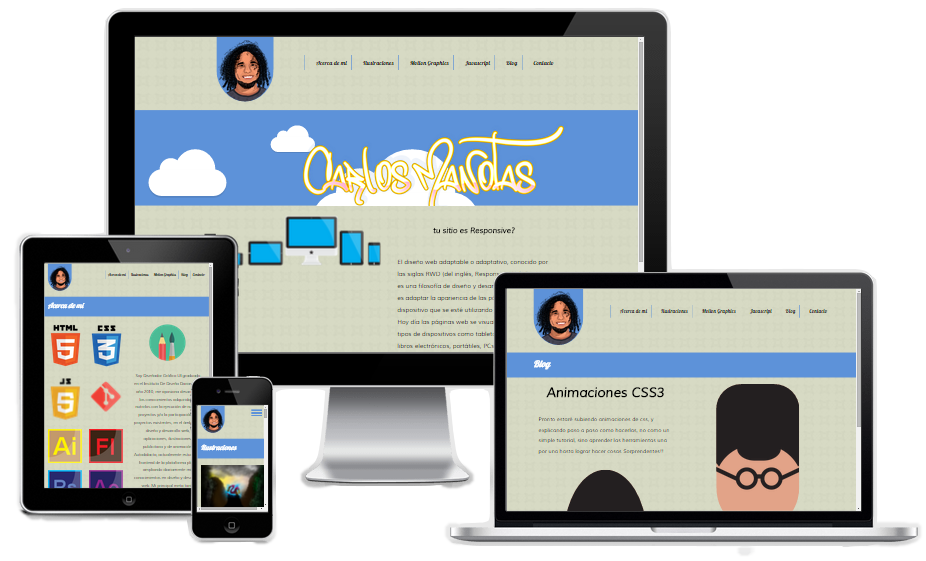
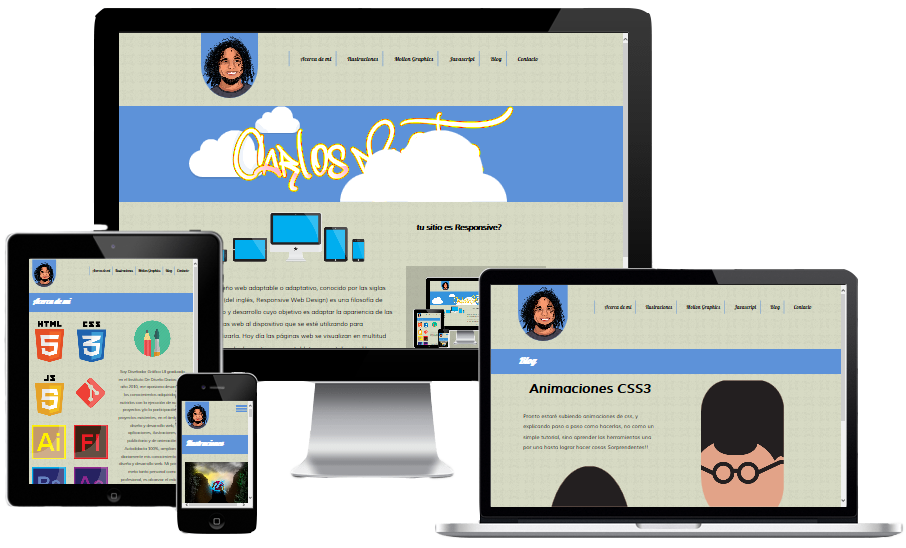
cuadricula fixed

Changed region(s): [[0.0, 0.0, 1.0, 0.9927], [0.4636, 0.4033, 0.5563, 0.4343]]

diff --git a/estilos.css b/estilos.css
@@ -1,1 +1,1 @@
-*,*:before,*:after{box-sizing:border-box}body{margin:0;padding:0}img{max-width:100%;height:auto}.grupo{position:relative;max-width:1100px;width:100%;margin:0 auto}.grupo.total{max-width:100% !important}.grupo:before,.grupo:after{content:"";display:table;width:100%;clear:both}.grupo .caja{float:left;margin:0;padding-left:15px;padding-right:15px;width:100%}.grupo .caja:last-child{float:right}.grupo .caja.total{float:none;display:table}.grupo .caja.total:before,.grupo .caja.total:after{content:"";display:table;width:100%;clear:both}.grupo .base-5{width:5%}.grupo .base-10{width:10%}.grupo .base-15{width:15%}.grupo .base-20{width:20%}.grupo .base-25{width:25%}.grupo .base-30{width:30%}.grupo .base-35{width:35%}.grupo .base-40{width:40%}.grupo .base-45{width:45%}.grupo .base-50{width:50%}.grupo .base-55{width:55%}.grupo .base-60{width:60%}.grupo .base-65{width:65%}.grupo .base-70{width:70%}.grupo .base-75{width:75%}.grupo .base-80{width:80%}.grupo .base-85{width:85%}.grupo .base-90{width:90%}.grupo .base-95{width:95%}.grupo .base-100{width:100%}.grupo .base-1-3{width:33.333333333%}.grupo .base-2-3{width:66.666666667%}.grupo .base-3-3{width:100%}.grupo .base-1-6{width:16.666666667%}.grupo .base-2-6{width:33.333333333%}.grupo .base-3-6{width:50%}.grupo .base-4-6{width:66.666666667%}.grupo .base-5-6{width:83.333333333%}.grupo .base-6-6{width:100%}.grupo .base-1-8{width:12.5%}.grupo .base-2-8{width:25%}.grupo .base-3-8{width:37.5%}.grupo .base-4-8{width:50%}.grupo .base-5-8{width:62.5%}.grupo .base-6-8{width:75%}.grupo .base-7-8{width:87.5%}.grupo .base-8-8{width:100%}@media all and (min-width: 480px){.grupo .caja.movil-5{width:5%}.grupo .caja.movil-10{width:10%}.grupo .caja.movil-15{width:15%}.grupo .caja.movil-20{width:20%}.grupo .caja.movil-25{width:25%}.grupo .caja.movil-30{width:30%}.grupo .caja.movil-35{width:35%}.grupo .caja.movil-40{width:40%}.grupo .caja.movil-45{width:45%}.grupo .caja.movil-50{width:50%}.grupo .caja.movil-55{width:55%}.grupo .caja.movil-60{width:60%}.grupo .caja.movil-65{width:65%}.grupo .caja.movil-70{width:70%}.grupo .caja.movil-75{width:75%}.grupo .caja.movil-80{width:80%}.grupo .caja.movil-85{width:85%}.grupo .caja.movil-90{width:90%}.grupo .caja.movil-95{width:95%}.grupo .caja.movil-100{width:100%}.grupo .caja.movil-1-3{width:33.333333333%}.grupo .caja.movil-2-3{width:66.666666667%}.grupo .caja.movil-3-3{width:100%}.grupo .caja.movil-1-6{width:16.666666667%}.grupo .caja.movil-2-6{width:33.333333333%}.grupo .caja.movil-3-6{width:50%}.grupo .caja.movil-4-6{width:66.666666667%}.grupo .caja.movil-5-6{width:83.333333333%}.grupo .caja.movil-6-6{width:100%}.grupo .caja.movil-1-8{width:12.5%}.grupo .caja.movil-2-8{width:25%}.grupo .caja.movil-3-8{width:37.5%}.grupo .caja.movil-4-8{width:50%}.grupo .caja.movil-5-8{width:62.5%}.grupo .caja.movil-6-8{width:75%}.grupo .caja.movil-7-8{width:87.5%}.grupo .caja.movil-8-8{width:100%}}@media all and (min-width: 768px){.grupo .caja.tablet-5{width:5%}.grupo .caja.tablet-10{width:10%}.grupo .caja.tablet-15{width:15%}.grupo .caja.tablet-20{width:20%}.grupo .caja.tablet-25{width:25%}.grupo .caja.tablet-30{width:30%}.grupo .caja.tablet-35{width:35%}.grupo .caja.tablet-40{width:40%}.grupo .caja.tablet-45{width:45%}.grupo .caja.tablet-50{width:50%}.grupo .caja.tablet-55{width:55%}.grupo .caja.tablet-60{width:60%}.grupo .caja.tablet-65{width:65%}.grupo .caja.tablet-70{width:70%}.grupo .caja.tablet-75{width:75%}.grupo .caja.tablet-80{width:80%}.grupo .caja.tablet-85{width:85%}.grupo .caja.tablet-90{width:90%}.grupo .caja.tablet-95{width:95%}.grupo .caja.tablet-100{width:100%}.grupo .caja.tablet-1-3{width:33.333333333%}.grupo .caja.tablet-2-3{width:66.666666667%}.grupo .caja.tablet-3-3{width:100%}.grupo .caja.tablet-1-6{width:16.666666667%}.grupo .caja.tablet-2-6{width:33.333333333%}.grupo .caja.tablet-3-6{width:50%}.grupo .caja.tablet-4-6{width:66.666666667%}.grupo .caja.tablet-5-6{width:83.333333333%}.grupo .caja.tablet-6-6{width:100%}.grupo .caja.tablet-1-8{width:12.5%}.grupo .caja.tablet-2-8{width:25%}.grupo .caja.tablet-3-8{width:37.5%}.grupo .caja.tablet-4-8{width:50%}.grupo .caja.tablet-5-8{width:62.5%}.grupo .caja.tablet-6-8{width:75%}.grupo .caja.tablet-7-8{width:87.5%}.grupo .caja.tablet-8-8{width:100%}}@media all and (min-width: 1025px){.grupo .caja.web-5{width:5%}.grupo .caja.web-10{width:10%}.grupo .caja.web-15{width:15%}.grupo .caja.web-20{width:20%}.grupo .caja.web-25{width:25%}.grupo .caja.web-30{width:30%}.grupo .caja.web-35{width:35%}.grupo .caja.web-40{width:40%}.grupo .caja.web-45{width:45%}.grupo .caja.web-50{width:50%}.grupo .caja.web-55{width:55%}.grupo .caja.web-60{width:60%}.grupo .caja.web-65{width:65%}.grupo .caja.web-70{width:70%}.grupo .caja.web-75{width:75%}.grupo .caja.web-80{width:80%}.grupo .caja.web-85{width:85%}.grupo .caja.web-90{width:90%}.grupo .caja.web-95{width:95%}.grupo .caja.web-100{width:100%}.grupo .caja.web-1-3{width:33.333333333%}.grupo .caja.web-2-3{width:66.666666667%}.grupo .caja.web-3-3{width:100%}.grupo .caja.web-1-6{width:16.666666667%}.grupo .caja.web-2-6{width:33.333333333%}.grupo .caja.web-3-6{width:50%}.grupo .caja.web-4-6{width:66.666666667%}.grupo .caja.web-5-6{width:83.333333333%}.grupo .caja.web-6-6{width:100%}.grupo .caja.web-1-8{width:12.5%}.grupo .caja.web-2-8{width:25%}.grupo .caja.web-3-8{width:37.5%}.grupo .caja.web-4-8{width:50%}.grupo .caja.web-5-8{width:62.5%}.grupo .caja.web-6-8{width:75%}.grupo .caja.web-7-8{width:87.5%}.grupo .caja.web-8-8{width:100%}}@media all and (min-width: 1400px){.grupo .caja.hd-5{width:5%}.grupo .caja.hd-10{width:10%}.grupo .caja.hd-15{width:15%}.grupo .caja.hd-20{width:20%}.grupo .caja.hd-25{width:25%}.grupo .caja.hd-30{width:30%}.grupo .caja.hd-35{width:35%}.grupo .caja.hd-40{width:40%}.grupo .caja.hd-45{width:45%}.grupo .caja.hd-50{width:50%}.grupo .caja.hd-55{width:55%}.grupo .caja.hd-60{width:60%}.grupo .caja.hd-65{width:65%}.grupo .caja.hd-70{width:70%}.grupo .caja.hd-75{width:75%}.grupo .caja.hd-80{width:80%}.grupo .caja.hd-85{width:85%}.grupo .caja.hd-90{width:90%}.grupo .caja.hd-95{width:95%}.grupo .caja.hd-100{width:100%}.grupo .caja.hd-1-3{width:33.333333333%}.grupo .caja.hd-2-3{width:66.666666667%}.grupo .caja.hd-3-3{width:100%}.grupo .caja.hd-1-6{width:16.666666667%}.grupo .caja.hd-2-6{width:33.333333333%}.grupo .caja.hd-3-6{width:50%}.grupo .caja.hd-4-6{width:66.666666667%}.grupo .caja.hd-5-6{width:83.333333333%}.grupo .caja.hd-6-6{width:100%}.grupo .caja.hd-1-8{width:12.5%}.grupo .caja.hd-2-8{width:25%}.grupo .caja.hd-3-8{width:37.5%}.grupo .caja.hd-4-8{width:50%}.grupo .caja.hd-5-8{width:62.5%}.grupo .caja.hd-6-8{width:75%}.grupo .caja.hd-7-8{width:87.5%}.grupo .caja.hd-8-8{width:100%}}.grupo.cuadricula{font-size:0}.grupo.cuadricula>.caja{float:none;display:inline-block;font-size:1rem}.grupo.base-tabla{display:table}.grupo.base-tabla>.caja{float:none;display:table-cell}.grupo.base-tabla.middle>.caja{vertical-align:middle}.grupo.base-tabla.top>.caja{vertical-align:top}.grupo.base-tabla.bottom>.caja{vertical-align:bottom}@media all and (min-width: 480px){.grupo.movil-tabla{display:table}.grupo.movil-tabla>.caja{float:none;display:table-cell}.grupo.movil-tabla.middle>.caja{vertical-align:middle}.grupo.movil-tabla.top>.caja{vertical-align:top}.grupo.movil-tabla.bottom>.caja{vertical-align:bottom}}@media all and (min-width: 768px){.grupo.tablet-tabla{display:table}.grupo.tablet-tabla>.caja{float:none;display:table-cell}.grupo.tablet-tabla.middle>.caja{vertical-align:middle}.grupo.tablet-tabla.top>.caja{vertical-align:top}.grupo.tablet-tabla.bottom>.caja{vertical-align:bottom}}@media all and (min-width: 1025px){.grupo.web-tabla{display:table}.grupo.web-tabla>.caja{float:none;display:table-cell}.grupo.web-tabla.middle>.caja{vertical-align:middle}.grupo.web-tabla.top>.caja{vertical-align:top}.grupo.web-tabla.bottom>.caja{vertical-align:bottom}}@media all and (min-width: 1400px){.grupo.hd-tabla{display:table}.grupo.hd-tabla>.caja{float:none;display:table-cell}.grupo.hd-tabla.middle>.caja{vertical-align:middle}.grupo.hd-tabla.top>.caja{vertical-align:top}.grupo.hd-tabla.bottom>.caja{vertical-align:bottom}}body.desarrollo{padding:0 !important;margin:0 !important}body.desarrollo:before{background:steelblue;color:#fff;font-size:18px;font-weight:bold;line-height:36px;text-align:center;display:block;height:36px;margin-bottom:30px;position:relative;z-index:900}body.desarrollo .grupo{padding-top:22px;margin-bottom:10px;outline:1px solid tomato}body.desarrollo .grupo .caja{position:relative;padding-bottom:22px}body.desarrollo .grupo .caja:nth-child(even){background:rgba(70,130,180,0.2)}body.desarrollo .grupo .grupo{margin-bottom:0}.desarrollo .grupo .caja:after,.desarrollo .grupo:before{content:attr(class);font-style:italic;font-size:12px;font-weight:normal;padding:0 5px;z-index:1;bottom:0;right:0;position:absolute;display:table;width:100%;height:22px;line-height:22px}.desarrollo .grupo:before{background:rgba(255,99,71,0.3);color:tomato;top:0;left:0;width:100%}.desarrollo .caja:after{background:rgba(70,130,180,0.2);color:steelblue}.desarrollo .caja.total:after{background:rgba(27,50,70,0.3)}body.desarrollo:before{content:"ED-GRID: Tamaño base"}@media screen and (min-width: 480px){body.desarrollo:before{content:"ED-GRID: Tamaño movil, a partir de 480px"}}@media screen and (min-width: 768px){body.desarrollo:before{content:"ED-GRID: Tamaño tablet, a partir de 768px"}}@media screen and (min-width: 1025px){body.desarrollo:before{content:"ED-GRID: Tamaño web, a partir de 1025px"}}@media screen and (min-width: 1400px){body.desarrollo:before{content:"ED-GRID: Tamaño hd, a partir de 1400px"}}@media screen and (max-width: 479px){.desde-movil{display:none}}@media screen and (min-width: 480px){.desde-movil{display:block}}@media screen and (max-width: 767px){.desde-tablet{display:none}}@media screen and (min-width: 768px){.desde-tablet{display:block}}@media screen and (max-width: 1024px){.desde-web{display:none}}@media screen and (min-width: 1025px){.desde-web{display:block}}@media screen and (max-width: 1399px){.desde-hd{display:none}}@media screen and (min-width: 1400px){.desde-hd{display:block}}@media screen and (max-width: 479px){.hasta-movil{display:block}}@media screen and (min-width: 480px){.hasta-movil{display:none}}@media screen and (max-width: 767px){.hasta-tablet{display:block}}@media screen and (min-width: 768px){.hasta-tablet{display:none}}@media screen and (max-width: 1024px){.hasta-web{display:block}}@media screen and (min-width: 1025px){.hasta-web{display:none}}@media screen and (max-width: 1399px){.hasta-hd{display:block}}@media screen and (min-width: 1400px){.hasta-hd{display:none}}.centrar-caja{display:block;clear:both;float:none !important;margin:0 auto !important}.centrar-texto{text-align:center}.derecha-texto{text-align:right}.left,.izquierda{float:left}.right,.derecha{float:right}.no-padding.grupo>.caja,.grupo>.no-padding{padding:0 !important}.padding{padding-left:15px;padding-right:15px}.doble-padding{padding-left:30px;padding-right:30px}body{background:#d7dac4 url("imagenes/texturas.png") repeat;min-width:320px}h1{text-align:center;font-family:'Muli',sans-serif;font-style:italic;font-size:1.5rem}h2{font-size:3rem}@media screen and (min-width: 768px){.titulo{padding-top:2em;}}.logo{width:110px;padding:0.6em 0.3em 0 0.3em;background-color:#5d92d9;border-radius:0 0 50% 50%}@media screen and (min-width: 1025px){.logo{width:180px;}}#mostrar-menu{padding-top:1em;padding-left:0.5em;line-height:3;text-align:right}@media screen and (min-width: 768px){#mostrar-menu{display:none;}}#mostrar-menu:before{content:"";cursor:pointer;display:inline-block;width:3.2em;height:2em;margin-right:0.5em;position:relative;top:0.1em;background:linear-gradient(#5d92d9 25%, transparent 25%, transparent 37%, #5d92d9 37%, #5d92d9 62%, transparent 62%, transparent 75%, #5d92d9 75%)}.menu{list-style:none;margin:0;padding:0;background:rgba(0,0,0,0.5);display:none}@media screen and (min-width: 768px){.menu{background:transparent;display:block;text-align:right;}}@media screen and (min-width: 768px){.menu__item{display:inline-block;}}.menu__item:nth-child(4){display:none}@media screen and (min-width: 1025px){.menu__item:nth-child(4){display:inline-block;}}.menu__link{color:black;line-height:2.5;padding-left:1em;text-decoration:none;font-family:'Lobster',cursive}.menu__link:hover{color:white}@media screen and (min-width: 768px){.menu__link{margin-top:2em;padding:0 0.4em 0 0.8em;display:inline-block;transition:all 0.5s;box-shadow:2px 0 rgba(93,146,217,0.9) inset;}.menu__link:hover{box-shadow:20em 0 rgba(93,146,217,0.9) inset;color:white}}@media screen and (min-width: 1025px){.menu__link{margin-top:3em;font-size:1.2em;padding:0 0.5em 0 1.9em;}}.caja-texto{padding:1.5em 1em;font-family:'Muli',sans-serif;text-align:left;font-size:1.2em}@media screen and (min-width: 768px){.caja-texto{line-height:2;}}.side{background-color:rgba(96,97,87,0.3);padding:2em 0;font-family:'Muli',sans-serif}.footer{width:100%;background:#606157 url("imagenes/texturas.png") repeat;text-align:center}@media screen and (min-width: 768px){.footer{bottom:0;}}.footer a{display:inline-block;text-decoration:none;color:#2f3637}.footer a :hover{color:black}.footer p{font-family:'Lobster',cursive;font-size:1.5rem;font-style:italic;color:white;margin-top:0.3em;margin-bottom:0;padding-left:0.2em}.footer h2{margin:0;padding:0 0.1em 0.2em 0.1em}.home{padding:0.5em 0.3em 0.2em 0 !important;box-shadow:2px 0 #2f3637;display:inline-block;font-size:3.5rem}.nube{background:#fff;border-radius:100px;box-shadow:0 8px 5px rgba(0,0,0,0.1);height:120px;position:relative;width:350px}.nube:after,.nube:before{background:#fff;content:'';position:absolute;z-indeX:-1}.nube:after{border-radius:100px;height:100px;left:50px;top:-50px;width:100px}.nube:before{border-radius:200px;width:180px;height:180px;right:50px;top:-90px}@-webkit-keyframes nubeAnimada{100%{margin-left:-1400px}0%{margin-left:100%}}@keyframes nubeAnimada{100%{margin-left:-1400px}0%{margin-left:100%}}.n1{-webkit-animation:nubeAnimada 35s linear infinite;animation:nubeAnimada 35s linear infinite;-webkit-transform:scale(0.4);-ms-transform:scale(0.4);transform:scale(0.4)}.n2{-webkit-animation:nubeAnimada 25s linear infinite;animation:nubeAnimada 25s linear infinite;-webkit-transform:scale(0.7);-ms-transform:scale(0.7);transform:scale(0.7)}.n3{-webkit-animation:nubeAnimada 40s linear infinite;animation:nubeAnimada 40s linear infinite;-webkit-transform:scale(1.5);-ms-transform:scale(1.5);transform:scale(1.5);z-index:40}.n4{-webkit-animation:nubeAnimada 30s linear infinite;animation:nubeAnimada 30s linear infinite;-webkit-transform:scale(1);-ms-transform:scale(1);transform:scale(1);z-index:-1}.fondo{background-color:#5d92d9;width:100%;text-align:center;overflow:hidden;margin-top:1.5em;height:150px;position:relative}@media screen and (min-width: 768px){.fondo{height:250px;}}@media screen and (min-width: 1025px){.fondo{height:300px;}}.animado{margin-top:3em;text-align:center;margin-right:0}.animado__img{text-align:center;margin:auto;z-index:20;position:absolute;top:0;left:0;right:0;bottom:0}@-webkit-keyframes textoAnimadoTablet{0%{top:-60px}100%{top:0}}@keyframes textoAnimadoTablet{0%{top:-60px}100%{top:0}}@-webkit-keyframes textoAnimado{0%{top:-50px}100%{top:0}}@keyframes textoAnimado{0%{top:-50px}100%{top:0}}.animado__img{-webkit-animation:textoAnimado 6s linear 2s infinite alternate;animation:textoAnimado 6s linear 2s infinite alternate}@media screen and (min-width: 768px){.animado__img{-webkit-animation:textoAnimadoTablet 4s linear 2s infinite alternate;animation:textoAnimadoTablet 4s linear 2s infinite alternate;}}.titulo__h1{font-family:'Lobster',cursive;text-align:left;color:white;font-size:2em}.fondo__generico{width:100%;background-color:#5d92d9;height:90px;margin:1.5em 0;overflow:hidden}@-webkit-keyframes textoTitulo{0%{margin-left:2000px;color:transparent}100%{margin-left:0;color:white}}@keyframes textoTitulo{0%{margin-left:2000px;color:transparent}100%{margin-left:0;color:white}}.titulo__h1{-webkit-animation:textoTitulo 0.5s ease-in;animation:textoTitulo 0.5s ease-in}.pointer{cursor:pointer}.img__item{border-radius:50%;max-width:150px !important}@media screen and (min-width: 768px){.img__item{display:none !important;}}.img__item__2{display:none}@media screen and (min-width: 768px){.img__item__2{border-radius:50%;width:180px;display:inline-block;}}.seccion{text-align:center;font-size:0}.seccion img{width:100%}.seccion img:nth-child(4){padding-top:1em}.seccion>img,.seccion>.img{display:inline-block;float:none;font-size:1rem;width:22.75%;margin-right:3%;margin-bottom:3%;vertical-align:top}.seccion>img:nth-child(4n),.seccion>.img:nth-child(4n){margin-right:0}@media screen and (min-width: 768px){.seccion{font-size:0;}.seccion img{max-width:155px}.seccion>img,.seccion>.img{display:inline-block;float:none;font-size:1rem;width:45%;margin-right:10%;margin-bottom:10%;vertical-align:top}.seccion>img:nth-child(2n),.seccion>.img:nth-child(2n){margin-right:0}}.caja-p{padding:1.5em 1em;font-family:'Muli',sans-serif;text-align:center;font-size:1.1em}@media screen and (min-width: 768px){.caja-p{line-height:2;}}@media screen and (min-width: 1025px){.caja-p{font-size:1.5em;}}.caja-p span{color:rgba(255,255,255,0.9);box-shadow:5px 40px 5px 5px rgba(0,0,0,0.5) inset;padding:0 0.2em}.acerca{text-align:center}.centrado{text-align:center}.contenedor_img img{padding:0.5em 0}@media screen and (min-width: 768px){.contenedor_img{font-size:0;}.contenedor_img img{cursor:pointer;max-height:220px;background-color:rgba(0,0,0,0.5);object-fit:contain}.contenedor_img>img,.contenedor_img>.img{display:inline-block;float:none;font-size:1rem;width:49%;margin-right:2%;margin-bottom:2%;vertical-align:top}.contenedor_img>img:nth-child(2n),.contenedor_img>.img:nth-child(2n){margin-right:0}}@media screen and (min-width: 1025px){.contenedor_img{font-size:0;}.contenedor_img img{cursor:pointer;height:220px;object-fit:cover;margin:0.5em 0}.contenedor_img>img,.contenedor_img>.img{display:inline-block;float:none;font-size:1rem;width:33.333333333%;margin-right:0%;margin-bottom:0%;vertical-align:top}.contenedor_img>img:nth-child(3n),.contenedor_img>.img:nth-child(3n){margin-right:0}}#previa{background:rgba(0,0,0,0.9);display:none;height:100vh;width:100vw;left:0;top:0;right:0;bottom:0;margin:auto;text-align:center;z-index:100;position:fixed}.video{width:300px;padding:0}.video__item{padding:0;left:0;width:95%;height:0;overflow:hidden;padding-bottom:53.4375%;position:relative}.video__item iframe{padding:0.5em 0;position:absolute;width:100%;height:100%;left:0}@media screen and (min-width: 768px){.video{width:640px;}}.anotacion{width:80px;height:60px;border-radius:6px;background-color:white;display:inline-block;font-size:3em;margin:0.5em}.campo{background-color:#fff}.score{padding:0.5em;text-align:center}.canvas{text-align:center;margin-bottom:2rem}.dibujando{width:100%}.dibujando,.dibujando1{width:300px;height:490px;background-size:auto auto;border-radius:90px 90px 65px 45px;position:relative;top:0;right:0;bottom:0;left:0;margin:0 auto;z-index:1}.dibujando{-webkit-animation:rostro 15s infinite alternate;animation:rostro 15s infinite alternate;background:#e2a388 url(imagenes/mapa.png)}.dibujando1{-webkit-animation:girar 2s infinite alternate;animation:girar 2s infinite alternate;background:#e2a388 url(imagenes/mapa2.png)}@-webkit-keyframes rostro{0%{background-position:34% 55%;border-radius:40% 45% 50% 20%}50%{background-position:54% 41%;border-radius:90px 90px 25% 25%}100%{background-position:76% 55%;border-radius:45% 40% 20% 50%}}@keyframes rostro{0%{background-position:34% 55%;border-radius:40% 45% 50% 20%}50%{background-position:54% 41%;border-radius:90px 90px 25% 25%}100%{background-position:76% 55%;border-radius:45% 40% 20% 50%}}@-webkit-keyframes girar{0%{background-position:50% 85%;border-radius:200% 200% 200% 200%}100%{background-position:50% 10%;border-radius:150% 150% 100% 100%}}@keyframes girar{0%{background-position:50% 85%;border-radius:200% 200% 200% 200%}100%{background-position:50% 10%;border-radius:150% 150% 100% 100%}}.foo{margin-top:2rem}.Htitulo{text-align:center;font-family:'Muli',sans-serif;font-style:italic;margin:0}
+*,*:before,*:after{box-sizing:border-box}body{margin:0;padding:0}img{max-width:100%;height:auto}.grupo{position:relative;max-width:1100px;width:100%;margin:0 auto}.grupo.total{max-width:100% !important}.grupo:before,.grupo:after{content:"";display:table;width:100%;clear:both}.grupo .caja{float:left;margin:0;padding-left:15px;padding-right:15px;width:100%}.grupo .caja:last-child{float:right}.grupo .caja.total{float:none;display:table}.grupo .caja.total:before,.grupo .caja.total:after{content:"";display:table;width:100%;clear:both}.grupo .base-5{width:5%}.grupo .base-10{width:10%}.grupo .base-15{width:15%}.grupo .base-20{width:20%}.grupo .base-25{width:25%}.grupo .base-30{width:30%}.grupo .base-35{width:35%}.grupo .base-40{width:40%}.grupo .base-45{width:45%}.grupo .base-50{width:50%}.grupo .base-55{width:55%}.grupo .base-60{width:60%}.grupo .base-65{width:65%}.grupo .base-70{width:70%}.grupo .base-75{width:75%}.grupo .base-80{width:80%}.grupo .base-85{width:85%}.grupo .base-90{width:90%}.grupo .base-95{width:95%}.grupo .base-100{width:100%}.grupo .base-1-3{width:33.333333333%}.grupo .base-2-3{width:66.666666667%}.grupo .base-3-3{width:100%}.grupo .base-1-6{width:16.666666667%}.grupo .base-2-6{width:33.333333333%}.grupo .base-3-6{width:50%}.grupo .base-4-6{width:66.666666667%}.grupo .base-5-6{width:83.333333333%}.grupo .base-6-6{width:100%}.grupo .base-1-8{width:12.5%}.grupo .base-2-8{width:25%}.grupo .base-3-8{width:37.5%}.grupo .base-4-8{width:50%}.grupo .base-5-8{width:62.5%}.grupo .base-6-8{width:75%}.grupo .base-7-8{width:87.5%}.grupo .base-8-8{width:100%}@media all and (min-width: 480px){.grupo .caja.movil-5{width:5%}.grupo .caja.movil-10{width:10%}.grupo .caja.movil-15{width:15%}.grupo .caja.movil-20{width:20%}.grupo .caja.movil-25{width:25%}.grupo .caja.movil-30{width:30%}.grupo .caja.movil-35{width:35%}.grupo .caja.movil-40{width:40%}.grupo .caja.movil-45{width:45%}.grupo .caja.movil-50{width:50%}.grupo .caja.movil-55{width:55%}.grupo .caja.movil-60{width:60%}.grupo .caja.movil-65{width:65%}.grupo .caja.movil-70{width:70%}.grupo .caja.movil-75{width:75%}.grupo .caja.movil-80{width:80%}.grupo .caja.movil-85{width:85%}.grupo .caja.movil-90{width:90%}.grupo .caja.movil-95{width:95%}.grupo .caja.movil-100{width:100%}.grupo .caja.movil-1-3{width:33.333333333%}.grupo .caja.movil-2-3{width:66.666666667%}.grupo .caja.movil-3-3{width:100%}.grupo .caja.movil-1-6{width:16.666666667%}.grupo .caja.movil-2-6{width:33.333333333%}.grupo .caja.movil-3-6{width:50%}.grupo .caja.movil-4-6{width:66.666666667%}.grupo .caja.movil-5-6{width:83.333333333%}.grupo .caja.movil-6-6{width:100%}.grupo .caja.movil-1-8{width:12.5%}.grupo .caja.movil-2-8{width:25%}.grupo .caja.movil-3-8{width:37.5%}.grupo .caja.movil-4-8{width:50%}.grupo .caja.movil-5-8{width:62.5%}.grupo .caja.movil-6-8{width:75%}.grupo .caja.movil-7-8{width:87.5%}.grupo .caja.movil-8-8{width:100%}}@media all and (min-width: 768px){.grupo .caja.tablet-5{width:5%}.grupo .caja.tablet-10{width:10%}.grupo .caja.tablet-15{width:15%}.grupo .caja.tablet-20{width:20%}.grupo .caja.tablet-25{width:25%}.grupo .caja.tablet-30{width:30%}.grupo .caja.tablet-35{width:35%}.grupo .caja.tablet-40{width:40%}.grupo .caja.tablet-45{width:45%}.grupo .caja.tablet-50{width:50%}.grupo .caja.tablet-55{width:55%}.grupo .caja.tablet-60{width:60%}.grupo .caja.tablet-65{width:65%}.grupo .caja.tablet-70{width:70%}.grupo .caja.tablet-75{width:75%}.grupo .caja.tablet-80{width:80%}.grupo .caja.tablet-85{width:85%}.grupo .caja.tablet-90{width:90%}.grupo .caja.tablet-95{width:95%}.grupo .caja.tablet-100{width:100%}.grupo .caja.tablet-1-3{width:33.333333333%}.grupo .caja.tablet-2-3{width:66.666666667%}.grupo .caja.tablet-3-3{width:100%}.grupo .caja.tablet-1-6{width:16.666666667%}.grupo .caja.tablet-2-6{width:33.333333333%}.grupo .caja.tablet-3-6{width:50%}.grupo .caja.tablet-4-6{width:66.666666667%}.grupo .caja.tablet-5-6{width:83.333333333%}.grupo .caja.tablet-6-6{width:100%}.grupo .caja.tablet-1-8{width:12.5%}.grupo .caja.tablet-2-8{width:25%}.grupo .caja.tablet-3-8{width:37.5%}.grupo .caja.tablet-4-8{width:50%}.grupo .caja.tablet-5-8{width:62.5%}.grupo .caja.tablet-6-8{width:75%}.grupo .caja.tablet-7-8{width:87.5%}.grupo .caja.tablet-8-8{width:100%}}@media all and (min-width: 1025px){.grupo .caja.web-5{width:5%}.grupo .caja.web-10{width:10%}.grupo .caja.web-15{width:15%}.grupo .caja.web-20{width:20%}.grupo .caja.web-25{width:25%}.grupo .caja.web-30{width:30%}.grupo .caja.web-35{width:35%}.grupo .caja.web-40{width:40%}.grupo .caja.web-45{width:45%}.grupo .caja.web-50{width:50%}.grupo .caja.web-55{width:55%}.grupo .caja.web-60{width:60%}.grupo .caja.web-65{width:65%}.grupo .caja.web-70{width:70%}.grupo .caja.web-75{width:75%}.grupo .caja.web-80{width:80%}.grupo .caja.web-85{width:85%}.grupo .caja.web-90{width:90%}.grupo .caja.web-95{width:95%}.grupo .caja.web-100{width:100%}.grupo .caja.web-1-3{width:33.333333333%}.grupo .caja.web-2-3{width:66.666666667%}.grupo .caja.web-3-3{width:100%}.grupo .caja.web-1-6{width:16.666666667%}.grupo .caja.web-2-6{width:33.333333333%}.grupo .caja.web-3-6{width:50%}.grupo .caja.web-4-6{width:66.666666667%}.grupo .caja.web-5-6{width:83.333333333%}.grupo .caja.web-6-6{width:100%}.grupo .caja.web-1-8{width:12.5%}.grupo .caja.web-2-8{width:25%}.grupo .caja.web-3-8{width:37.5%}.grupo .caja.web-4-8{width:50%}.grupo .caja.web-5-8{width:62.5%}.grupo .caja.web-6-8{width:75%}.grupo .caja.web-7-8{width:87.5%}.grupo .caja.web-8-8{width:100%}}@media all and (min-width: 1400px){.grupo .caja.hd-5{width:5%}.grupo .caja.hd-10{width:10%}.grupo .caja.hd-15{width:15%}.grupo .caja.hd-20{width:20%}.grupo .caja.hd-25{width:25%}.grupo .caja.hd-30{width:30%}.grupo .caja.hd-35{width:35%}.grupo .caja.hd-40{width:40%}.grupo .caja.hd-45{width:45%}.grupo .caja.hd-50{width:50%}.grupo .caja.hd-55{width:55%}.grupo .caja.hd-60{width:60%}.grupo .caja.hd-65{width:65%}.grupo .caja.hd-70{width:70%}.grupo .caja.hd-75{width:75%}.grupo .caja.hd-80{width:80%}.grupo .caja.hd-85{width:85%}.grupo .caja.hd-90{width:90%}.grupo .caja.hd-95{width:95%}.grupo .caja.hd-100{width:100%}.grupo .caja.hd-1-3{width:33.333333333%}.grupo .caja.hd-2-3{width:66.666666667%}.grupo .caja.hd-3-3{width:100%}.grupo .caja.hd-1-6{width:16.666666667%}.grupo .caja.hd-2-6{width:33.333333333%}.grupo .caja.hd-3-6{width:50%}.grupo .caja.hd-4-6{width:66.666666667%}.grupo .caja.hd-5-6{width:83.333333333%}.grupo .caja.hd-6-6{width:100%}.grupo .caja.hd-1-8{width:12.5%}.grupo .caja.hd-2-8{width:25%}.grupo .caja.hd-3-8{width:37.5%}.grupo .caja.hd-4-8{width:50%}.grupo .caja.hd-5-8{width:62.5%}.grupo .caja.hd-6-8{width:75%}.grupo .caja.hd-7-8{width:87.5%}.grupo .caja.hd-8-8{width:100%}}.grupo.cuadricula{font-size:0}.grupo.cuadricula>.caja{float:none;display:inline-block;font-size:1rem}.grupo.base-tabla{display:table}.grupo.base-tabla>.caja{float:none;display:table-cell}.grupo.base-tabla.middle>.caja{vertical-align:middle}.grupo.base-tabla.top>.caja{vertical-align:top}.grupo.base-tabla.bottom>.caja{vertical-align:bottom}@media all and (min-width: 480px){.grupo.movil-tabla{display:table}.grupo.movil-tabla>.caja{float:none;display:table-cell}.grupo.movil-tabla.middle>.caja{vertical-align:middle}.grupo.movil-tabla.top>.caja{vertical-align:top}.grupo.movil-tabla.bottom>.caja{vertical-align:bottom}}@media all and (min-width: 768px){.grupo.tablet-tabla{display:table}.grupo.tablet-tabla>.caja{float:none;display:table-cell}.grupo.tablet-tabla.middle>.caja{vertical-align:middle}.grupo.tablet-tabla.top>.caja{vertical-align:top}.grupo.tablet-tabla.bottom>.caja{vertical-align:bottom}}@media all and (min-width: 1025px){.grupo.web-tabla{display:table}.grupo.web-tabla>.caja{float:none;display:table-cell}.grupo.web-tabla.middle>.caja{vertical-align:middle}.grupo.web-tabla.top>.caja{vertical-align:top}.grupo.web-tabla.bottom>.caja{vertical-align:bottom}}@media all and (min-width: 1400px){.grupo.hd-tabla{display:table}.grupo.hd-tabla>.caja{float:none;display:table-cell}.grupo.hd-tabla.middle>.caja{vertical-align:middle}.grupo.hd-tabla.top>.caja{vertical-align:top}.grupo.hd-tabla.bottom>.caja{vertical-align:bottom}}body.desarrollo{padding:0 !important;margin:0 !important}body.desarrollo:before{background:steelblue;color:#fff;font-size:18px;font-weight:bold;line-height:36px;text-align:center;display:block;height:36px;margin-bottom:30px;position:relative;z-index:900}body.desarrollo .grupo{padding-top:22px;margin-bottom:10px;outline:1px solid tomato}body.desarrollo .grupo .caja{position:relative;padding-bottom:22px}body.desarrollo .grupo .caja:nth-child(even){background:rgba(70,130,180,0.2)}body.desarrollo .grupo .grupo{margin-bottom:0}.desarrollo .grupo .caja:after,.desarrollo .grupo:before{content:attr(class);font-style:italic;font-size:12px;font-weight:normal;padding:0 5px;z-index:1;bottom:0;right:0;position:absolute;display:table;width:100%;height:22px;line-height:22px}.desarrollo .grupo:before{background:rgba(255,99,71,0.3);color:tomato;top:0;left:0;width:100%}.desarrollo .caja:after{background:rgba(70,130,180,0.2);color:steelblue}.desarrollo .caja.total:after{background:rgba(27,50,70,0.3)}body.desarrollo:before{content:"ED-GRID: Tamaño base"}@media screen and (min-width: 480px){body.desarrollo:before{content:"ED-GRID: Tamaño movil, a partir de 480px"}}@media screen and (min-width: 768px){body.desarrollo:before{content:"ED-GRID: Tamaño tablet, a partir de 768px"}}@media screen and (min-width: 1025px){body.desarrollo:before{content:"ED-GRID: Tamaño web, a partir de 1025px"}}@media screen and (min-width: 1400px){body.desarrollo:before{content:"ED-GRID: Tamaño hd, a partir de 1400px"}}@media screen and (max-width: 479px){.desde-movil{display:none}}@media screen and (min-width: 480px){.desde-movil{display:block}}@media screen and (max-width: 767px){.desde-tablet{display:none}}@media screen and (min-width: 768px){.desde-tablet{display:block}}@media screen and (max-width: 1024px){.desde-web{display:none}}@media screen and (min-width: 1025px){.desde-web{display:block}}@media screen and (max-width: 1399px){.desde-hd{display:none}}@media screen and (min-width: 1400px){.desde-hd{display:block}}@media screen and (max-width: 479px){.hasta-movil{display:block}}@media screen and (min-width: 480px){.hasta-movil{display:none}}@media screen and (max-width: 767px){.hasta-tablet{display:block}}@media screen and (min-width: 768px){.hasta-tablet{display:none}}@media screen and (max-width: 1024px){.hasta-web{display:block}}@media screen and (min-width: 1025px){.hasta-web{display:none}}@media screen and (max-width: 1399px){.hasta-hd{display:block}}@media screen and (min-width: 1400px){.hasta-hd{display:none}}.centrar-caja{display:block;clear:both;float:none !important;margin:0 auto !important}.centrar-texto{text-align:center}.derecha-texto{text-align:right}.left,.izquierda{float:left}.right,.derecha{float:right}.no-padding.grupo>.caja,.grupo>.no-padding{padding:0 !important}.padding{padding-left:15px;padding-right:15px}.doble-padding{padding-left:30px;padding-right:30px}body{background:#d7dac4 url("imagenes/texturas.png") repeat;min-width:320px}h1{text-align:center;font-family:'Muli',sans-serif;font-style:italic;font-size:1.5rem}h2{font-size:3rem}@media screen and (min-width: 768px){.titulo{padding-top:2em;}}.logo{width:110px;padding:0.6em 0.3em 0 0.3em;background-color:#5d92d9;border-radius:0 0 50% 50%}@media screen and (min-width: 1025px){.logo{width:180px;}}#mostrar-menu{padding-top:1em;padding-left:0.5em;line-height:3;text-align:right}@media screen and (min-width: 768px){#mostrar-menu{display:none;}}#mostrar-menu:before{content:"";cursor:pointer;display:inline-block;width:3.2em;height:2em;margin-right:0.5em;position:relative;top:0.1em;background:linear-gradient(#5d92d9 25%, transparent 25%, transparent 37%, #5d92d9 37%, #5d92d9 62%, transparent 62%, transparent 75%, #5d92d9 75%)}.menu{list-style:none;margin:0;padding:0;background:rgba(0,0,0,0.5);display:none}@media screen and (min-width: 768px){.menu{background:transparent;display:block;text-align:right;}}@media screen and (min-width: 768px){.menu__item{display:inline-block;}}.menu__item:nth-child(4){display:none}@media screen and (min-width: 1025px){.menu__item:nth-child(4){display:inline-block;}}.menu__link{color:black;line-height:2.5;padding-left:1em;text-decoration:none;font-family:'Lobster',cursive}.menu__link:hover{color:white}@media screen and (min-width: 768px){.menu__link{margin-top:2em;padding:0 0.4em 0 0.8em;display:inline-block;transition:all 0.5s;box-shadow:2px 0 rgba(93,146,217,0.9) inset;}.menu__link:hover{box-shadow:20em 0 rgba(93,146,217,0.9) inset;color:white}}@media screen and (min-width: 1025px){.menu__link{margin-top:3em;font-size:1.2em;padding:0 0.5em 0 1.9em;}}.caja-texto{padding:1.5em 1em;font-family:'Muli',sans-serif;text-align:left;font-size:1.2em}@media screen and (min-width: 768px){.caja-texto{line-height:2;}}.side{background-color:rgba(96,97,87,0.3);padding:2em 0;font-family:'Muli',sans-serif}.footer{width:100%;background:#606157 url("imagenes/texturas.png") repeat;text-align:center}@media screen and (min-width: 768px){.footer{bottom:0;}}.footer a{display:inline-block;text-decoration:none;color:#2f3637}.footer a :hover{color:black}.footer p{font-family:'Lobster',cursive;font-size:1.5rem;font-style:italic;color:white;margin-top:0.3em;margin-bottom:0;padding-left:0.2em}.footer h2{margin:0;padding:0 0.1em 0.2em 0.1em}.home{padding:0.5em 0.3em 0.2em 0 !important;box-shadow:2px 0 #2f3637;display:inline-block;font-size:3.5rem}.nube{background:#fff;border-radius:100px;box-shadow:0 8px 5px rgba(0,0,0,0.1);height:120px;position:relative;width:350px}.nube:after,.nube:before{background:#fff;content:'';position:absolute;z-indeX:-1}.nube:after{border-radius:100px;height:100px;left:50px;top:-50px;width:100px}.nube:before{border-radius:200px;width:180px;height:180px;right:50px;top:-90px}@-webkit-keyframes nubeAnimada{100%{margin-left:-1400px}0%{margin-left:100%}}@keyframes nubeAnimada{100%{margin-left:-1400px}0%{margin-left:100%}}.n1{-webkit-animation:nubeAnimada 35s linear infinite;animation:nubeAnimada 35s linear infinite;-webkit-transform:scale(0.4);-ms-transform:scale(0.4);transform:scale(0.4)}.n2{-webkit-animation:nubeAnimada 25s linear infinite;animation:nubeAnimada 25s linear infinite;-webkit-transform:scale(0.7);-ms-transform:scale(0.7);transform:scale(0.7)}.n3{-webkit-animation:nubeAnimada 40s linear infinite;animation:nubeAnimada 40s linear infinite;-webkit-transform:scale(1.5);-ms-transform:scale(1.5);transform:scale(1.5);z-index:40}.n4{-webkit-animation:nubeAnimada 30s linear infinite;animation:nubeAnimada 30s linear infinite;-webkit-transform:scale(1);-ms-transform:scale(1);transform:scale(1);z-index:-1}.fondo{background-color:#5d92d9;width:100%;text-align:center;overflow:hidden;margin-top:1.5em;height:150px;position:relative}@media screen and (min-width: 768px){.fondo{height:250px;}}@media screen and (min-width: 1025px){.fondo{height:300px;}}.animado{margin-top:3em;text-align:center;margin-right:0}.animado__img{text-align:center;margin:auto;z-index:20;position:absolute;top:0;left:0;right:0;bottom:0}@-webkit-keyframes textoAnimadoTablet{0%{top:-60px}100%{top:0}}@keyframes textoAnimadoTablet{0%{top:-60px}100%{top:0}}@-webkit-keyframes textoAnimado{0%{top:-50px}100%{top:0}}@keyframes textoAnimado{0%{top:-50px}100%{top:0}}.animado__img{-webkit-animation:textoAnimado 6s linear 2s infinite alternate;animation:textoAnimado 6s linear 2s infinite alternate}@media screen and (min-width: 768px){.animado__img{-webkit-animation:textoAnimadoTablet 4s linear 2s infinite alternate;animation:textoAnimadoTablet 4s linear 2s infinite alternate;}}.titulo__h1{font-family:'Lobster',cursive;text-align:left;color:white;font-size:2em}.fondo__generico{width:100%;background-color:#5d92d9;height:90px;margin:1.5em 0;overflow:hidden}@-webkit-keyframes textoTitulo{0%{margin-left:2000px;color:transparent}100%{margin-left:0;color:white}}@keyframes textoTitulo{0%{margin-left:2000px;color:transparent}100%{margin-left:0;color:white}}.titulo__h1{-webkit-animation:textoTitulo 0.5s ease-in;animation:textoTitulo 0.5s ease-in}.pointer{cursor:pointer}.img__item{border-radius:50%;max-width:150px !important}@media screen and (min-width: 768px){.img__item{display:none !important;}}.img__item__2{display:none}@media screen and (min-width: 768px){.img__item__2{border-radius:50%;width:180px;display:inline-block;}}.seccion{text-align:center;font-size:0}.seccion img{width:100%}.seccion img:nth-child(4){padding-top:1em}.seccion>img,.seccion>.img{display:inline-block;float:none;font-size:1rem;width:22.75%;margin-right:3%;margin-bottom:3%;vertical-align:top}.seccion>img:nth-child(4n),.seccion>.img:nth-child(4n){margin-right:0}@media screen and (min-width: 768px){.seccion{font-size:0;}.seccion img{max-width:155px}.seccion>img,.seccion>.img{display:inline-block;float:none;font-size:1rem;width:45%;margin-right:10%;margin-bottom:10%;vertical-align:top}.seccion>img:nth-child(2n),.seccion>.img:nth-child(2n){margin-right:0}}.caja-p{padding:1.5em 1em;font-family:'Muli',sans-serif;text-align:center;font-size:1.1em}@media screen and (min-width: 768px){.caja-p{line-height:2;}}@media screen and (min-width: 1025px){.caja-p{font-size:1.5em;}}.caja-p span{color:rgba(255,255,255,0.9);box-shadow:5px 40px 5px 5px rgba(0,0,0,0.5) inset;padding:0 0.2em}.acerca{text-align:center}.centrado{text-align:center}.contenedor_img img{padding:0.5em 0}@media screen and (min-width: 768px) and (max-width: 1024px){.contenedor_img{font-size:0;}.contenedor_img img{cursor:pointer;max-height:220px;background-color:rgba(0,0,0,0.5);object-fit:contain}.contenedor_img>img,.contenedor_img>.img{display:inline-block;float:none;font-size:1rem;width:49%;margin-right:2%;margin-bottom:2%;vertical-align:top}.contenedor_img>img:nth-child(2n),.contenedor_img>.img:nth-child(2n){margin-right:0}}@media screen and (min-width: 1025px){.contenedor_img{font-size:0;}.contenedor_img img{cursor:pointer;height:220px;object-fit:cover;margin:0.5em 0}.contenedor_img>img,.contenedor_img>.img{display:inline-block;float:none;font-size:1rem;width:30.666666667%;margin-right:4%;margin-bottom:4%;vertical-align:top}.contenedor_img>img:nth-child(3n),.contenedor_img>.img:nth-child(3n){margin-right:0}}#previa{background:rgba(0,0,0,0.9);display:none;height:100vh;width:100vw;left:0;top:0;right:0;bottom:0;margin:auto;text-align:center;z-index:100;position:fixed}.video{width:300px;padding:0}.video__item{padding:0;left:0;width:95%;height:0;overflow:hidden;padding-bottom:53.4375%;position:relative}.video__item iframe{padding:0.5em 0;position:absolute;width:100%;height:100%;left:0}@media screen and (min-width: 768px){.video{width:640px;}}.anotacion{width:80px;height:60px;border-radius:6px;background-color:white;display:inline-block;font-size:3em;margin:0.5em}.campo{background-color:#fff}.score{padding:0.5em;text-align:center}.canvas{text-align:center;margin-bottom:2rem}.dibujando{width:100%}.dibujando,.dibujando1{width:300px;height:490px;background-size:auto auto;border-radius:90px 90px 65px 45px;position:relative;top:0;right:0;bottom:0;left:0;margin:0 auto;z-index:1}.dibujando{-webkit-animation:rostro 15s infinite alternate;animation:rostro 15s infinite alternate;background:#e2a388 url(imagenes/mapa.png)}.dibujando1{-webkit-animation:girar 2s infinite alternate;animation:girar 2s infinite alternate;background:#e2a388 url(imagenes/mapa2.png)}@-webkit-keyframes rostro{0%{background-position:34% 55%;border-radius:40% 45% 50% 20%}50%{background-position:54% 41%;border-radius:90px 90px 25% 25%}100%{background-position:76% 55%;border-radius:45% 40% 20% 50%}}@keyframes rostro{0%{background-position:34% 55%;border-radius:40% 45% 50% 20%}50%{background-position:54% 41%;border-radius:90px 90px 25% 25%}100%{background-position:76% 55%;border-radius:45% 40% 20% 50%}}@-webkit-keyframes girar{0%{background-position:50% 85%;border-radius:200% 200% 200% 200%}100%{background-position:50% 10%;border-radius:150% 150% 100% 100%}}@keyframes girar{0%{background-position:50% 85%;border-radius:200% 200% 200% 200%}100%{background-position:50% 10%;border-radius:150% 150% 100% 100%}}.foo{margin-top:2rem}.Htitulo{text-align:center;font-family:'Muli',sans-serif;font-style:italic;margin:0}

diff --git a/sass/componentes/_style.scss b/sass/componentes/_style.scss
@@ -424,7 +424,7 @@ h2{
 		padding: .5em 0;
 	}
 
-	@include desde(tablet){
+	@include desde-hasta(tablet,web){
 		
 
 
@@ -447,7 +447,7 @@ h2{
 			margin: .5em 0;
 		}
 
-		@include cuadricula(img,3,0%)
+		@include cuadricula(img,3,4%)
 	}
 }
 #previa{
